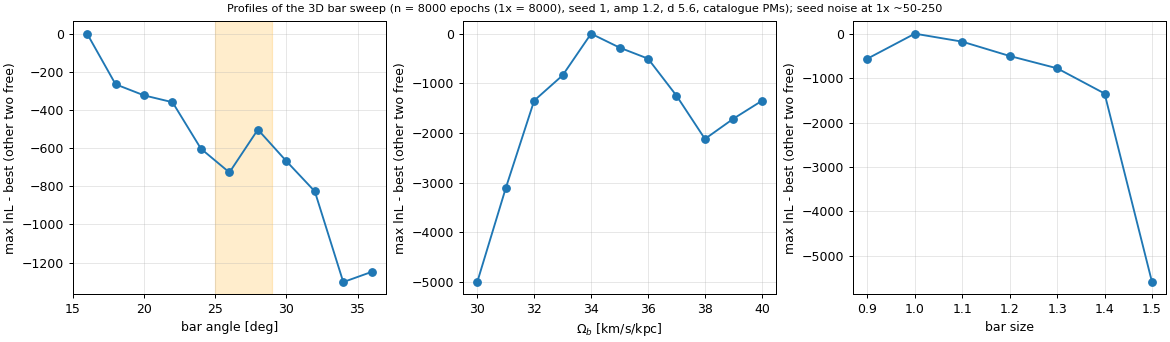
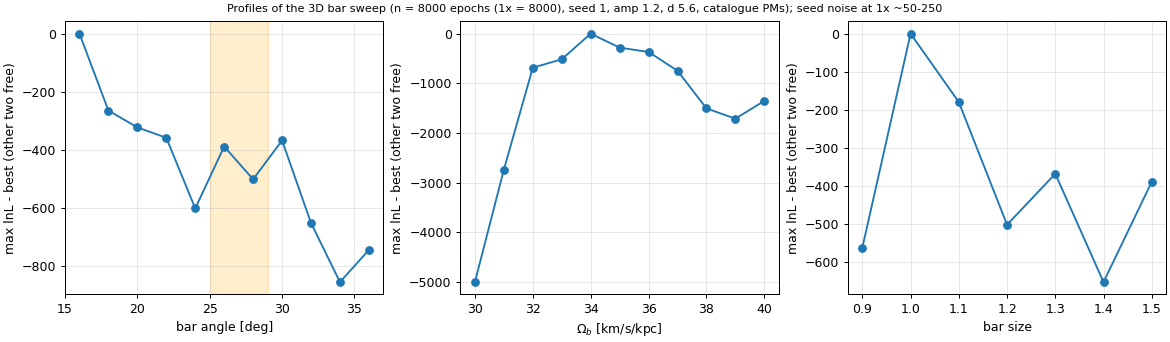
3D bar sweep extended with R_bar0 = 4.25 kpc corotation cut: --rbar0 option, plots, journal

diff --git a/bin/streams/bar3d_sweep.py b/bin/streams/bar3d_sweep.py
@@ -2,7 +2,7 @@
 """Likelihood sweep over the 3D bar space: angle x pattern speed x bar size (test run: 1x particles, seed 1).
 Grid: angle 16-36 deg (step 2), Omega_b 30-40 km/s/kpc (step 1), size 0.9-1.5 (step 0.1); points with the bar end beyond
 corotation (size x 5.0 kpc > R_CR(Omega_b) of the axisymmetric Hunter+2024 host; R_bar0 = 5.0 kpc UNVERIFIED, as in
-profile_stage1.py) are skipped. Fixed: amp 1.2, d 5.6 kpc, catalogue PMs, baumgardt frame, 8000 epochs (1x), seed 1, debris
+profile_stage1.py; --rbar0 4.25 = the model's A2 half-peak length) are skipped. Fixed: amp 1.2, d 5.6 kpc, catalogue PMs, baumgardt frame, 8000 epochs (1x), seed 1, debris
 < 700 Myr (make_spray max_age_myr=700; identical lnL to the full spray). No sprays saved; per point: lnL, phi1-segment lnL,
 footprint PM medians per 2-deg phi1 bin.
 Parallel: independent worker processes, each takes every n-th point and appends JSON lines to its own file
@@ -17,10 +17,10 @@ from ocen_dm.streams.restricted import agama_kpc, HUNTER24_DIR
 
 ap = argparse.ArgumentParser()
 ap.add_argument("--worker", type=int, default=0); ap.add_argument("--nworkers", type=int, default=1)
-ap.add_argument("--nrel", type=int, default=8000); ap.add_argument("--seed", type=int, default=1); ap.add_argument("--amp", type=float, default=1.2)
+ap.add_argument("--rbar0", type=float, default=5.0); ap.add_argument("--nrel", type=int, default=8000); ap.add_argument("--seed", type=int, default=1); ap.add_argument("--amp", type=float, default=1.2)
 a = ap.parse_args()
 
-RBAR0 = 5.0
+RBAR0 = a.rbar0   # kpc, bar half-length at size 1 (5.0 star counts, Wegg+2015; 4.25 = A2 half-peak of the model)
 agama = agama_kpc(); _axi = agama.Potential(file=os.path.join(HUNTER24_DIR, "MWPotentialHunter24_axi.ini"))
 _R = np.linspace(2., 12., 2001); _OM = np.sqrt(-_R*_axi.force(np.column_stack((_R, 0*_R, 0*_R)))[:, 0])/_R
 r_cr = lambda om: float(np.interp(-om, -_OM, _R))
@@ -30,7 +30,7 @@ CAT = (OCEN_OBS["pmra"], OCEN_OBS["pmdec"]); SEG = [(-99, 4), (4, 17), (17, 99)]
 edges = np.arange(np.floor(du.min()), np.ceil(du.max())+2, 2.); cen = 0.5*(edges[1:]+edges[:-1])
 outd = ROOT/"results/plot_data/bar3d_sweep"; outd.mkdir(parents=True, exist_ok=True)
 outp = outd/f"w{a.worker}.jsonl"
-done = {json.loads(l)["tag"] for l in outp.read_text().splitlines()} if outp.exists() else set()
+done = {json.loads(l)["tag"] for f in outd.glob("w*.jsonl") for l in f.read_text().splitlines()}   # all workers (point split may change)
 if a.worker == 0:
     print(f"{len(PTS)} points (of {len(ANG)*len(OM)*len(SIZE)}) after the corotation cut", flush=True)
 for an, om, sz in PTS[a.worker::a.nworkers]:
